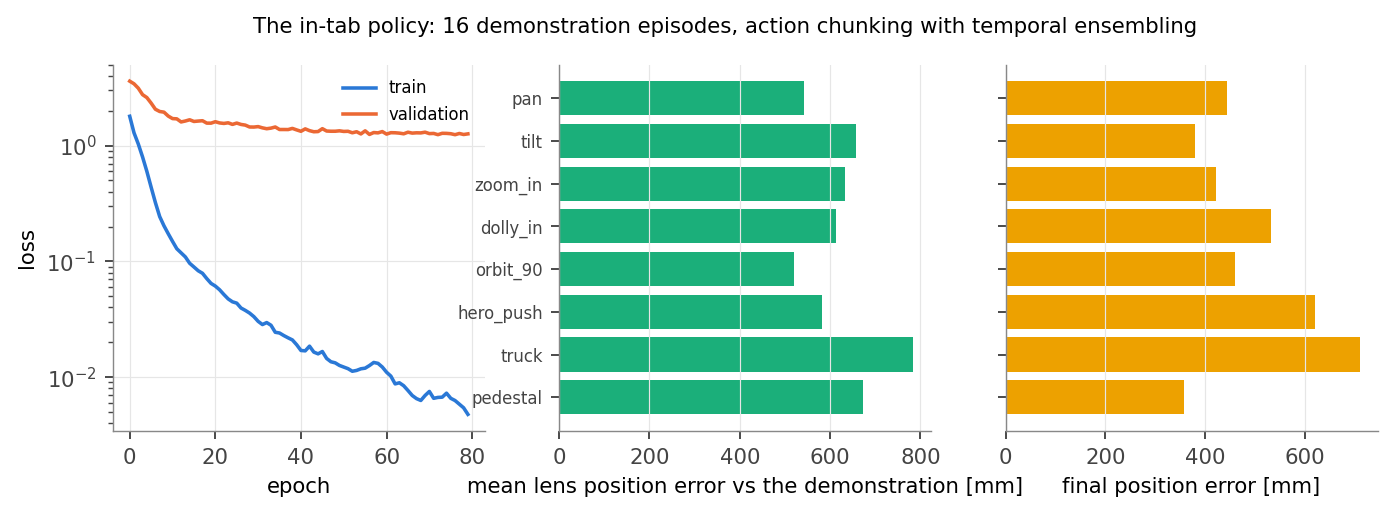
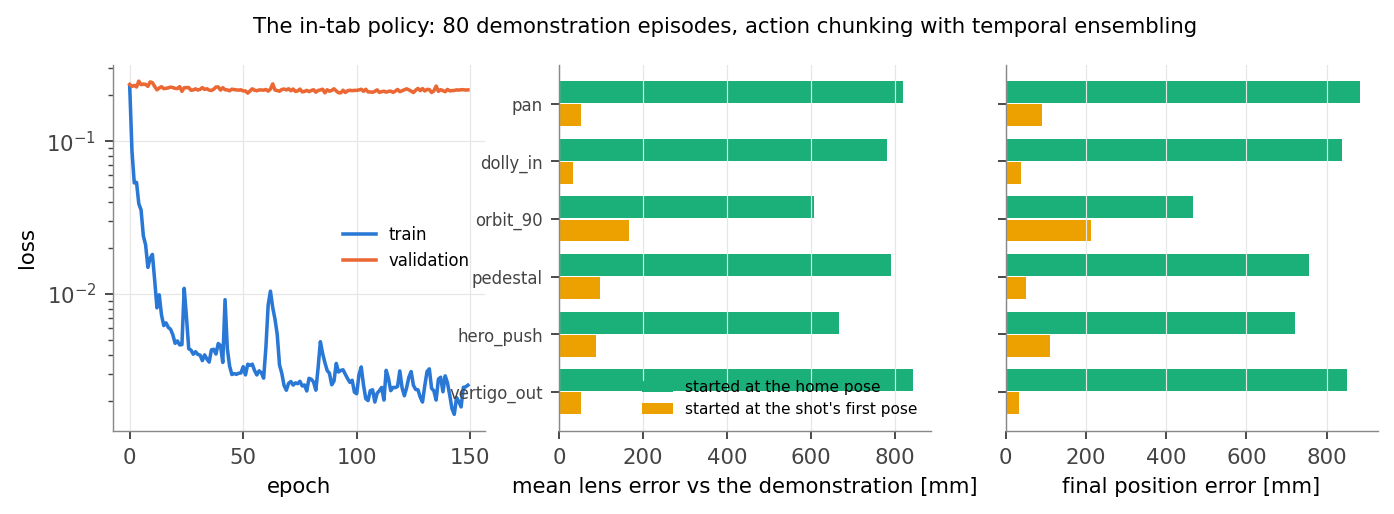
IRIS: two measured experiments — tracking from the camera feed, and where a learned shot starts
Object tracking: a colour tracker on a 132x88 read-back of the feed, connected
components scored by redness (the carrot cake's crust is bigger than the car, so
scoring by size tracked the cake), proportional control on the camera's measured
pose. Holds the car to 13.4% of the frame at 28 mm and 15.5% at 45 mm; at 85 mm
the 16-degree field of view loses it 62% of the time and a reactive tracker has no
way back.

Policy: 80 demonstration episodes of the studio's own presets, action chunking with
temporal ensembling. Started at the home pose, which no demonstration visits, a
rollout ends 752 mm from the demonstration; started at the shot's first pose, 89 mm.
That order of magnitude is the distribution shift the thesis met.

Claude-Session: https://claude.ai/code/session_01YRFwJm5vh7hd65pENfDDmv

diff --git a/iris.html b/iris.html
@@ -148,7 +148,7 @@
       <a href="iris_studio.html" target="_blank" rel="noopener">Open the studio ↗</a>
       <a href="assets/pdf/projects/MEng_Project_Thesis_Final-13.pdf" target="_blank" rel="noopener">Thesis (82 pp.)</a>
       <a href="https://crv.pubpub.org/pub/i8xqyiz0/release/1" target="_blank" rel="noopener">CRV paper</a>
-      <a href="assets/pdf/projects/iris_studio_report.pdf" target="_blank" rel="noopener">Studio report</a>
+      <a href="assets/pdf/projects/iris_studio_report.pdf" target="_blank" rel="noopener">Studio report (11 pp.)</a>
       <a href="https://github.com/thejerrycheng/IRIS" target="_blank" rel="noopener">Code</a>
       <a href="cinema_robot.html">Thesis pages (2025)</a>
     </div>
@@ -267,6 +267,32 @@
       <p>It is honest about what it is: a few thousand samples and a few hundred thousand parameters, enough to reproduce a shot it has seen and to show the failure modes the thesis met at full scale, the zero-action attractor above all. Export the dataset as JSON to train something bigger offline.</p>
     </div>
     <figure class="fig" style="margin-top:0"><img src="assets/images/projects/iris/studio_learn.jpg" alt="The record and train tab of the studio" loading="lazy"><figcaption><b>The tab:</b> dataset counter, loss curve, and the policy status while it flies.</figcaption></figure>
+  </div>
+</section>
+
+<!-- =================== EXPERIMENTS =================== -->
+<section class="section" id="experiments">
+  <h2 class="section-title">Two experiments, run in the browser</h2>
+  <p class="lead">Both of these run inside the studio itself, driven headlessly at a fixed 30 Hz step so they are repeatable: the tracking loop reads the rendered camera feed, and the policy is trained on demonstrations the studio recorded of its own presets. The numbers below are measured, not asserted.</p>
+
+  <div class="grid-2">
+    <div class="prose">
+      <h3 style="font-size:19px;margin-bottom:8px">Object tracking from the feed</h3>
+      <p>The toy car laps the desk and the wrist keeps it centred, either from its true position or from a <b>colour tracker reading the feed</b>: segment saturated red, take connected components of a 132 × 88 read-back, score them by redness rather than by size, and steer the optical axis with a proportional law applied to the camera's measured pose.</p>
+      <p>Scoring by size was the first bug: the carrot cake's brown crust covers more pixels than the car, so the arm politely tracked the cake. Chromaticity separates them cleanly (car ≈ 0.85, crust ≈ 0.65). Two attempts to lead the target with an estimated angular rate made things worse, because the rate had to be estimated from the controller's own corrections and the loop amplified them.</p>
+      <p><b>Result.</b> With ground truth the car stays within a fraction of a percent of frame centre. The tracker holds it to <b>13.4 %</b> of the frame at 28 mm and <b>15.5 %</b> at 45 mm, with residuals (what it still sees off-centre) of 9.5 % and 6.0 %, and it sees nothing in 16–18 % of frames. At 85 mm the field of view is 16°, the car leaves the frame, and a reactive tracker with no search behaviour cannot get it back: lost in <b>62 %</b> of frames.</p>
+    </div>
+    <figure class="fig" style="margin-top:0"><img src="assets/images/projects/iris/figs/fig_tracking.png" alt="Tracking error over time for ground truth and the pixel tracker at three focal lengths" loading="lazy"><figcaption><b>Tracking:</b> the car's offset from frame centre, the tracker's own residual, and how often it sees nothing.</figcaption></figure>
+  </div>
+
+  <div class="grid-2" style="margin-top:22px">
+    <figure class="fig" style="margin-top:0"><img src="assets/images/projects/iris/figs/fig_policy.png" alt="Policy training curve and rollout errors" loading="lazy"><figcaption><b>The in-tab policy:</b> training and held-out loss, and how far each rollout ends from the demonstration it imitates.</figcaption></figure>
+    <div class="prose">
+      <h3 style="font-size:19px;margin-bottom:8px">Learning a shot from demonstrations</h3>
+      <p>The studio recorded <b>80 episodes</b> (every non-tracking preset on all four product sets) at 10 Hz, and trained the VisionJointPlanner-lite in the tab: five past states plus a 24 × 16 thumbnail of the feed and a goal token in, the next five joint and lens deltas out, with temporal ensembling at run time.</p>
+      <p>It learns the shape of a move and then drifts. TensorFlow.js validates on the tail of the data, so the held-out set is whole shots the model never saw: the training loss reaches 0.0025 against 0.22 held out. Where it <i>starts</i> decides everything. Rolled out from the home pose, a state no demonstration ever visits, it ends on average <b>752 mm</b> from where the demonstration ended. Started at the shot's own first pose, as a deployment would after the thesis's goal-directed start, that falls to <b>89 mm</b> and the zoom lands within a few millimetres of the right focal length. That order of magnitude is the distribution shift the thesis fixed with a goal-directed start and a stagnation detector.</p>
+      <p>It is a working data-collection and training loop at toy scale, not a result: the thesis needed 17,897 samples where this has a few thousand. Record your own, export the JSON, and train something bigger offline.</p>
+    </div>
   </div>
 </section>
 
